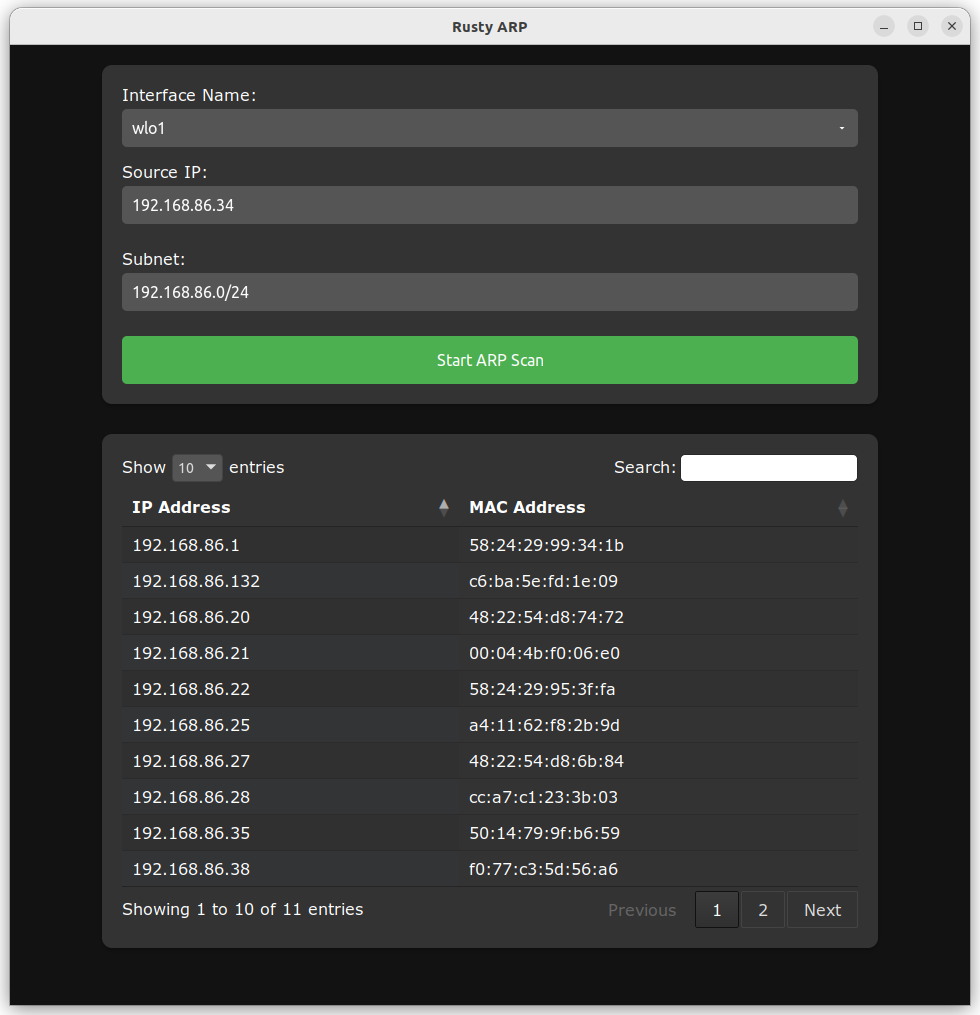
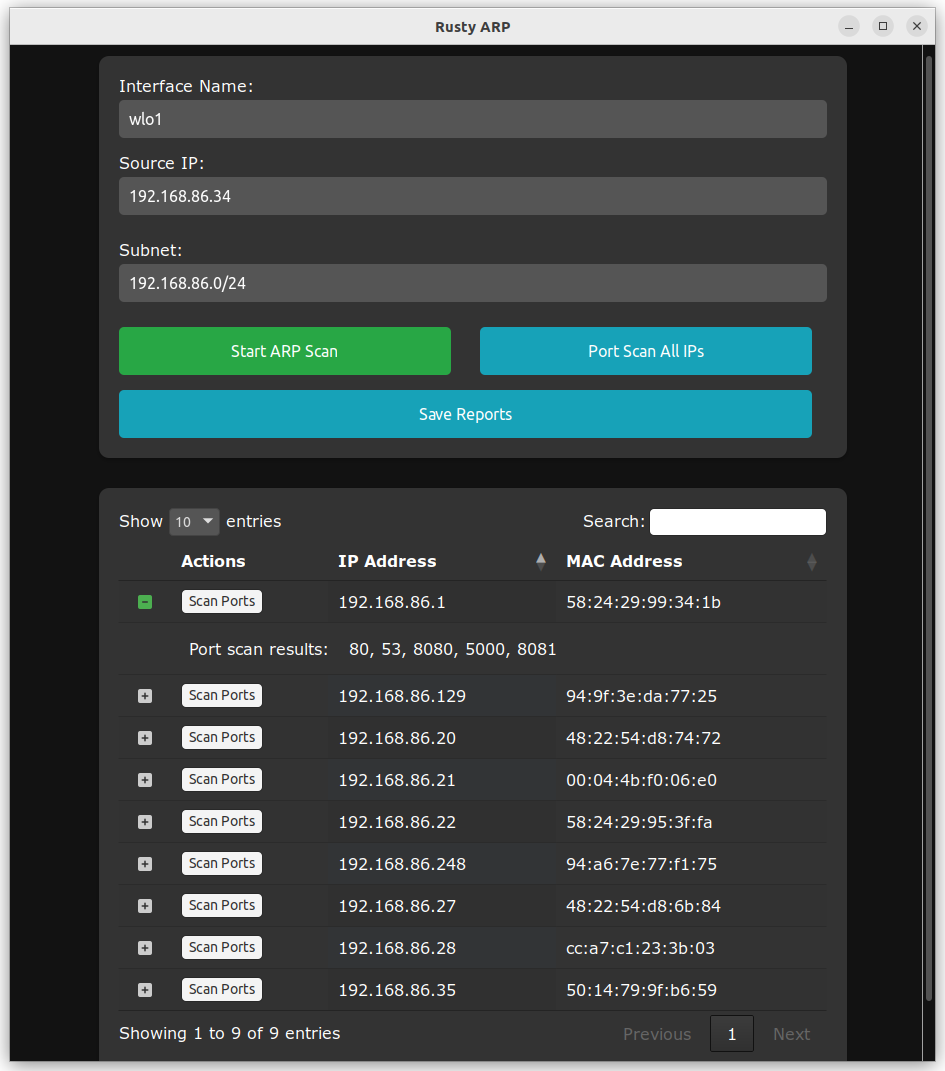
readme

diff --git a/README.md b/README.md
@@ -11,10 +11,9 @@ If you found this app useful
 
 ### ToDO List
 - [x] Add port scanning for each device 
-- [ ] Export scan results to report
+- [x] Export scan results to report
 - [ ] Add form validation
 
 
 ### Screenshots
-<img src="ScreenShots/main.png" width="50%"><img src="ScreenShots/scan.png" width="50%"></br>
-<img src="ScreenShots/scan.gif" width="70%">
+<img src="ScreenShots/main.png" width="33%"><img src="ScreenShots/scan.png" width="33%"><img src="ScreenShots/report.png" width="33%"></br>
